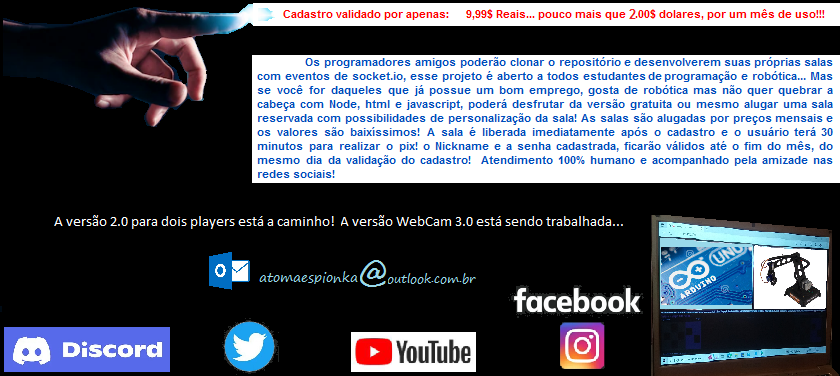
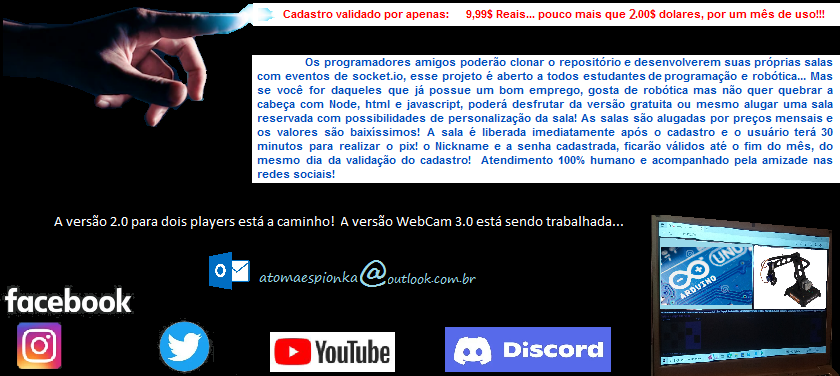
commit Alignlinks

Changed region(s): [[0.0, 0.7606, 0.7738, 0.9947]]

diff --git a/index.html b/index.html
@@ -47,7 +47,6 @@ a:hover{
 .linkreposit{/*link github*/
   flex: 18%;
   margin-right: 5px;
-  
   color:#b70fe0;
   /*margin-left: 75px;
   margin-right: 0%;*/
@@ -84,7 +83,7 @@ a:hover{
   flex-shrink: 0;
 }
 .linkRedeS3{/*link instagram*/
-  flex: 10%;
+  flex: 15%;
   margin-left: 5px;
   
   color:#f84297;
@@ -97,7 +96,7 @@ a:hover{
 
 .linkRedeS4{/*link doi discord*/
   flex: 15%;
-  margin-left: 100px;
+  margin-left: 25px;
   
   color:#108519;
   /*margin-left: 95px;*/
@@ -196,10 +195,10 @@ a {
   justify-content:center;
   padding: 0px;
 ">
-  <a href="https://discord.com" class="link linkRedeS4">Discord</a>
+  <a href="https://www.instagram.com/atomaespionka/" class="link linkRedeS3">Instagram</a>
   <a href="https://twitter.com/RafaelS14068210" class="link linkRedeS">twitter</a>
   <a href="https://youtube.com/@RafaelSilva-ke7rt" class="link linkRedeS2">Youtube</a>
-  <a href="https://www.instagram.com/atomaespionka/" class="link linkRedeS3">Instagram</a>
+  <a href="https://discord.com" class="link linkRedeS4">Discord</a>
   <a href="https://github.com/Rafael-Silva-Natal" class="link linkreposit">Repositório no GitHub.</a>
 </div>
 

diff --git a/CopyBlock.html b/CopyBlock.html
@@ -21,6 +21,7 @@
 }
 #cabe{
   display: inline-block;
+ 
 }
 
 .cabeçalho{
@@ -31,7 +32,7 @@
   border: 0px;
   text-indent: 120px;
   text-shadow: 2px 2px rgb(56, 202, 221);
-
+  
 }
 
 
